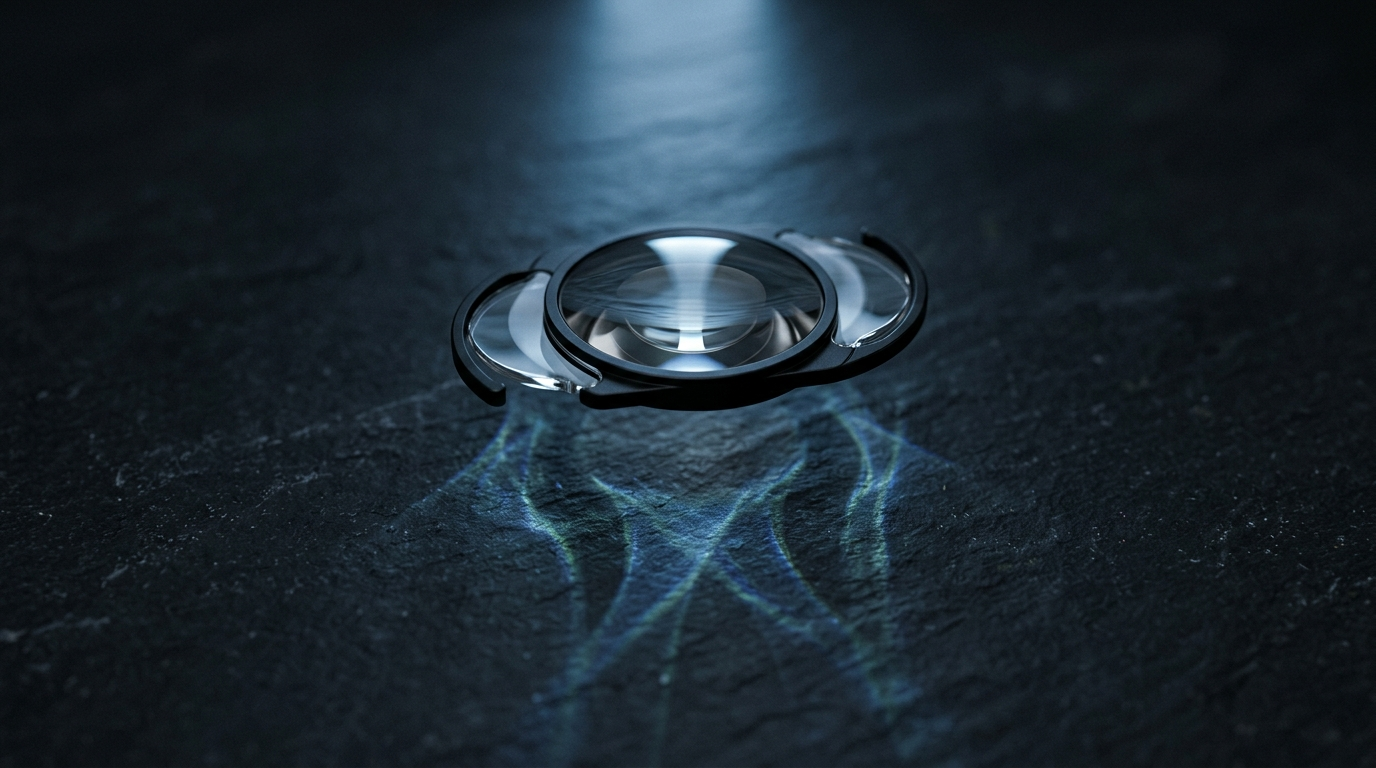
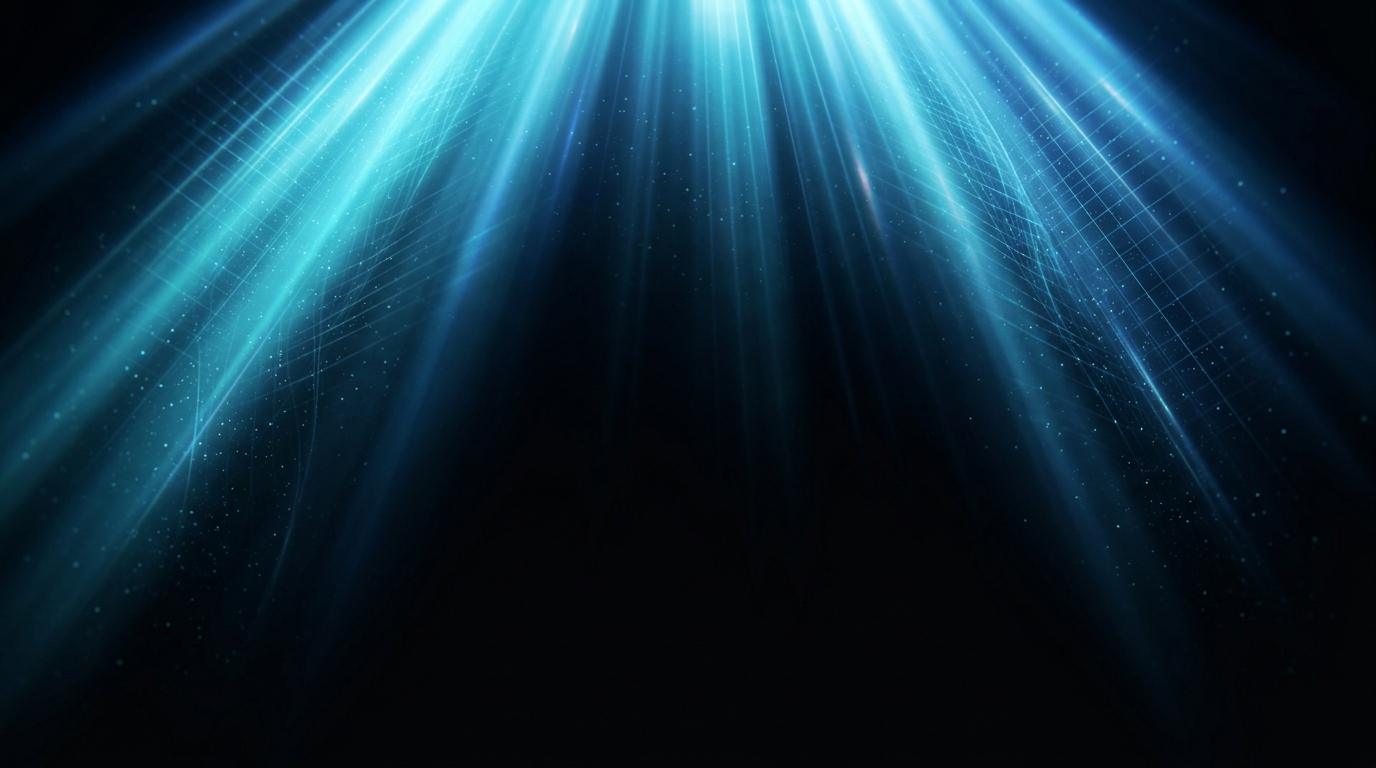
feat(website): elevate hero visual with radiant celestial volumetric light shafts and optical wavefront depth

diff --git a/apps/website/index.html b/apps/website/index.html
@@ -197,33 +197,33 @@
   .hero-bg-image {
     position: absolute;
     inset: -30px;
-    background: url('assets/hero_optics_bg.jpg') center 42% / cover no-repeat;
-    opacity: 0.62;
-    filter: brightness(0.95) contrast(1.12) saturate(1.2);
+    background: url('assets/hero_optics_bg.jpg') center top / cover no-repeat;
+    opacity: 0.82;
+    filter: brightness(1.05) contrast(1.18) saturate(1.25);
     animation: heroKenBurns 32s ease-in-out infinite alternate;
-    transform-origin: 50% 45%;
+    transform-origin: 50% 20%;
   }
   @keyframes heroKenBurns {
     0% { transform: scale(1) translateY(0); }
-    50% { transform: scale(1.06) translateY(-8px); }
+    50% { transform: scale(1.05) translateY(-6px); }
     100% { transform: scale(1) translateY(0); }
   }
   .hero-ambient-glow {
     position: absolute;
-    top: 40%;
+    top: 25%;
     left: 50%;
     transform: translate(-50%, -50%);
-    width: 1000px;
-    height: 520px;
-    background: radial-gradient(ellipse 65% 55% at 50% 50%, rgba(56, 189, 248, 0.28) 0%, rgba(2, 132, 199, 0.12) 50%, transparent 75%);
-    filter: blur(50px);
+    width: 1100px;
+    height: 560px;
+    background: radial-gradient(ellipse 70% 55% at 50% 30%, rgba(56, 189, 248, 0.32) 0%, rgba(2, 132, 199, 0.15) 50%, transparent 75%);
+    filter: blur(55px);
     z-index: 2;
     pointer-events: none;
     animation: glowBreathe 8s ease-in-out infinite alternate;
   }
   @keyframes glowBreathe {
-    0% { transform: translate(-50%, -50%) scale(0.92); opacity: 0.75; }
-    100% { transform: translate(-50%, -50%) scale(1.08); opacity: 1; }
+    0% { transform: translate(-50%, -50%) scale(0.94); opacity: 0.8; }
+    100% { transform: translate(-50%, -50%) scale(1.06); opacity: 1; }
   }
   .hero-canvas {
     position: absolute;
@@ -238,8 +238,8 @@
     inset: 0;
     z-index: 1;
     background: 
-      radial-gradient(ellipse 75% 65% at 50% 45%, rgba(8, 9, 12, 0.2) 0%, rgba(8, 9, 12, 0.75) 70%, #08090c 100%),
-      linear-gradient(to bottom, rgba(8, 9, 12, 0.85) 0%, transparent 20%, transparent 65%, #08090c 100%);
+      radial-gradient(ellipse 85% 65% at 50% 35%, transparent 0%, rgba(8, 9, 12, 0.45) 65%, #08090c 100%),
+      linear-gradient(to bottom, rgba(8, 9, 12, 0.25) 0%, transparent 15%, transparent 60%, #08090c 100%);
   }
   .hero-content {
     position: relative;
@@ -700,6 +700,10 @@
       <div class="hero-bg-gradient"></div>
     </div>
     <div class="wrap hero-content">
+      <div class="hero-badge" style="display:inline-flex;align-items:center;gap:10px;padding:6px 18px;border-radius:var(--radius-full);background:rgba(14,17,23,0.78);border:1px solid rgba(56,189,248,0.35);backdrop-filter:blur(16px);-webkit-backdrop-filter:blur(16px);margin-bottom:24px;box-shadow:0 0 24px rgba(56,189,248,0.18);">
+        <span class="hero-beacon"></span>
+        <span style="font-family:var(--font-mono);font-size:12px;font-weight:700;letter-spacing:0.06em;color:var(--accent);text-transform:uppercase;">Next-Gen Vision AI & Autonomous Copilot</span>
+      </div>
       <h1 class="hero-title">
         Clinical intelligence in the exam room.<br>Visual autonomy in everyday life.
       </h1>
